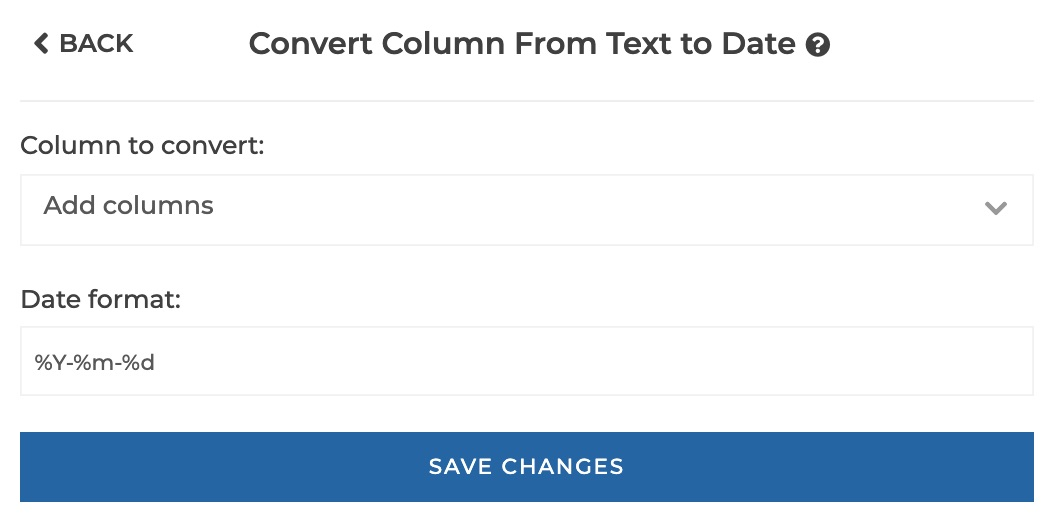
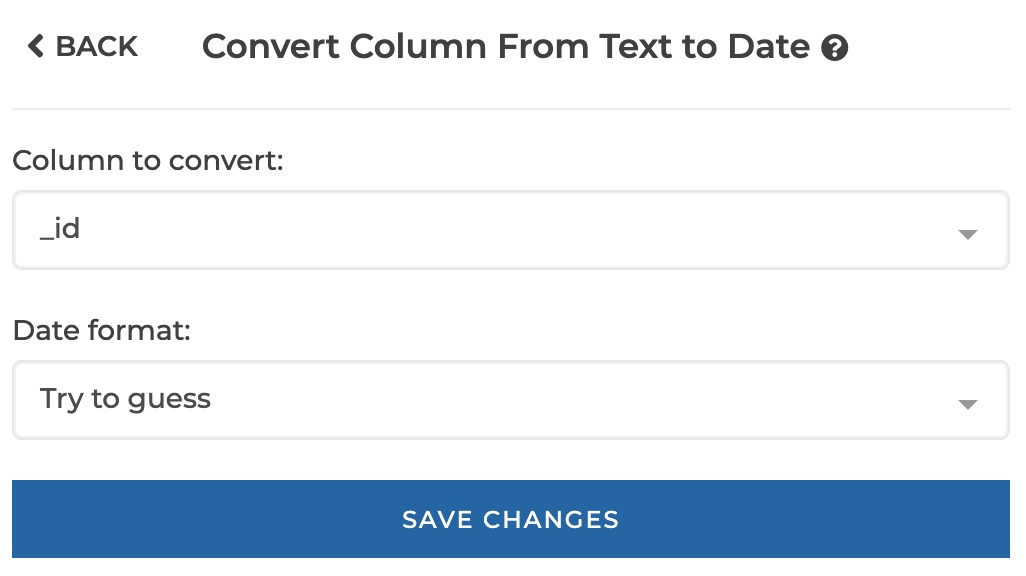
todate :: update documentation

diff --git a/docs/_docs/tech/steps.md b/docs/_docs/tech/steps.md
@@ -416,14 +416,14 @@ of the computation. The computation can be scoped by group if needed.
 
 **Input dataset:**
 
-| DATE      | VALUE |
-| --------- | ----- |
-| 2019-01   | 2     |
-| 2019-02   | 5     |
-| 2019-03   | 3     |
-| 2019-04   | 8     |
-| 2019-05   | 9     |
-| 2019-06   | 6     |
+| DATE    | VALUE |
+| ------- | ----- |
+| 2019-01 | 2     |
+| 2019-02 | 5     |
+| 2019-03 | 3     |
+| 2019-04 | 8     |
+| 2019-05 | 9     |
+| 2019-06 | 6     |
 
 **Step configuration:**
 
@@ -865,16 +865,16 @@ prohibited.
 
 **Output dataset:**
 
-| DATE    | COUNTRY | VALUE | MY_EVOL |
-| ------- | ------- | ----- | -------------- |
-| 2014-12 | France  | 79    |                |
-| 2015-12 | France  | 81    | Error ...      |
-| 2016-12 | France  | 77    | Error ...      |
-| 2017-12 | France  | 75    | Error ...      |
-| 2014-12 | USA     | 74    |                |
-| 2015-12 | USA     | 74    | Error ...      |
-| 2016-12 | USA     | 73    | Error ...      |
-| 2017-12 | USA     | 72    | Error ...      |
+| DATE    | COUNTRY | VALUE | MY_EVOL   |
+| ------- | ------- | ----- | --------- |
+| 2014-12 | France  | 79    |           |
+| 2015-12 | France  | 81    | Error ... |
+| 2016-12 | France  | 77    | Error ... |
+| 2017-12 | France  | 75    | Error ... |
+| 2014-12 | USA     | 74    |           |
+| 2015-12 | USA     | 74    | Error ... |
+| 2016-12 | USA     | 73    | Error ... |
+| 2017-12 | USA     | 72    | Error ... |
 
 #### Example 4: Complete configuration with index columns
 
@@ -2101,10 +2101,10 @@ Converts a string `column` into a date column based on a specified `format`.
 {
     name: 'todate',
     column: 'myTextColumn'
-    format: '%Y-%m-%d' // Optional. If not specified, the backend tries to guess
-                        // For further details on supported format specifiers,
-                        // see https://docs.mongodb.com/manual/reference/operator/aggregation/dateFromString/#datefromstring-format-specifiers
-                        // Note: format is unsupported in Mongo versions older than 4.0
+    format: '%Y-%m-%d' // Optional. If undefined, the backend tries to infer the date format.
+                       // For further details on supported format specifiers,
+                       // see https://docs.mongodb.com/manual/reference/operator/aggregation/dateFromString/#datefromstring-format-specifiers
+                       // Note: custom format is not supported in Mongo versions older than 4.0
 }
 ```
 

diff --git a/docs/_docs/user-interface/todate.md b/docs/_docs/user-interface/todate.md
@@ -16,18 +16,22 @@ You can use this step to cast a text column to date.
 
 - Widget `Date`
 - Search bar
+- Column header data type icon
 
 #### Options reference
 
-<img src="../../img/docs/user-interface/todate_step_form.jpg" width="350" />
+<img src="../../img/docs/user-interface/todate_step_form.jpg" width="350" /></br>
+
+<img src="../../img/docs/user-interface/todate_step_form_presets.jpg" width="350" /></br>
+
+<img src="../../img/docs/user-interface/todate_step_form_custom.jpg" width="350" /></br>
 
 - `Column to convert:`: the text column to be converted to date
 
-- `Date format:`: (optional). By default, the backend tries to guess the date
-  format of your column. But if needed you can specify here a custom format.
-
-Please see the [Mongo documentation](https://docs.mongodb.com/manual/reference/operator/aggregation/dateFromString/index.html#datefromstring-format-specifiers)
-for Mongo supported formats.
+- `format:`: either 'Try to guess' (the backend tries to infer the date format of your column),
+  'Custom' (to allow you to enter a custom format in the `custom format` parameter below),
+  or a preset (e.g. "%d-%m-%Y"). Please see the [Mongo documentation](https://docs.mongodb.com/manual/reference/operator/aggregation/dateFromString/index.html#datefromstring-format-specifiers)
+  for Mongo custom supported formats.
 
 #### Example
 
